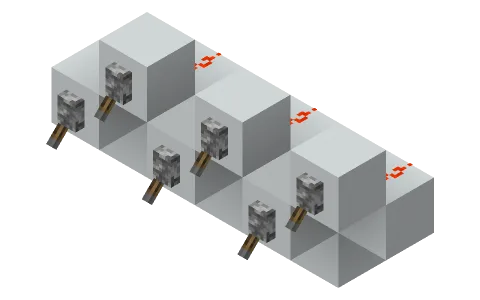
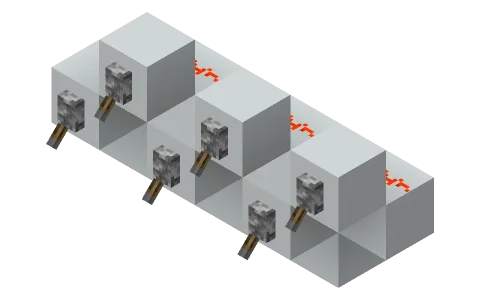
An input block may drive any number of dusts on its sides; dust under it still may not, which the picture that showed three dusts now shows instead. The example pictures are drawn with each dust shaped as the game places it among its neighbours, as //update does
Claude-Session: https://claude.ai/code/session_01VrCGFSjk8y7vX4fWnZdXPB

Changed region(s): [[0.7812, 0.54, 0.875, 0.66], [0.5938, 0.36, 0.6562, 0.45], [0.4062, 0.18, 0.4688, 0.27]]

diff --git a/src/simulate/circuit.rs b/src/simulate/circuit.rs
@@ -11,7 +11,7 @@ use anyhow::{Context, Result, bail};
 use mchprs_blocks::{
     BlockFace, BlockPos,
     block_entities::{BlockEntity, ContainerType},
-    blocks::Block,
+    blocks::{Block, RedstoneWireSide},
 };
 use mchprs_redpiler::{
     Compiler, CompilerInput, CompilerOptions, TaskMonitor,
@@ -843,6 +843,40 @@ const POWER: [&str; 4] = ["power", "powered", "lit", "locked"];
 /// What `blocks` comes to rest as with every lever off but those at `on`,
 /// as the game settles it: each block whose state changes, as its state
 /// with its power alone changed, and each comparator whose strength does.
+/// `blocks` with each dust's shape as the game would give it placed among
+/// its neighbours, as `//update` does: pointing at what it connects to,
+/// a lone dust a cross. Its power is left as it was.
+pub fn connected(blocks: &Blocks) -> Result<Blocks> {
+    let world = world(blocks)?;
+    let side = |side: RedstoneWireSide| match side {
+        RedstoneWireSide::Up => "up",
+        RedstoneWireSide::Side => "side",
+        RedstoneWireSide::None => "none",
+    };
+    let states: HashMap<Pos, String> = blocks
+        .iter()
+        .filter(|&(_, state)| state != schem::AIR)
+        .map(|(pos, state)| {
+            if schem::short(state) != "redstone_wire" {
+                return (pos, state.to_owned());
+            }
+            let placed =
+                mchprs_redstone::wire::get_state_for_placement(&world, at(pos));
+            let shaped = set_properties(
+                state,
+                &[
+                    ("north", side(placed.north).to_owned()),
+                    ("south", side(placed.south).to_owned()),
+                    ("east", side(placed.east).to_owned()),
+                    ("west", side(placed.west).to_owned()),
+                ],
+            );
+            (pos, shaped)
+        })
+        .collect();
+    Ok(Blocks::from_grid(blocks.size, &states))
+}
+
 pub fn settled(
     blocks: &Blocks,
     on: &BTreeSet<Pos>,

diff --git a/src/guide.rs b/src/guide.rs
@@ -99,18 +99,13 @@ pub fn examples() -> Vec<Example> {
             blocks: [input(1, 1), vec![([2, 1, 1], TORCH_EAST)]].concat(),
         },
         Example {
-            name: "input-three-dusts",
-            caption: "An input block driving three dusts.",
+            name: "input-dust-below",
+            caption: "Dust under an input's block.",
             kept: false,
-            breaks: Some("input drives three dusts"),
+            breaks: Some("input block wiring"),
             blocks: [
-                input(1, 1),
-                vec![
-                    ([0, 0, 1], WHITE),
-                    ([0, 1, 1], DUST_EW),
-                    ([2, 0, 1], WHITE),
-                    ([2, 1, 1], DUST_EW),
-                ],
+                input(1, 2),
+                vec![([1, 1, 1], DUST_EW), ([1, 0, 1], WHITE)],
             ]
             .concat(),
         },
@@ -204,7 +199,6 @@ mod tests {
             }
             if example.kept {
                 for rule in [
-                    "input drives three dusts",
                     "input block wiring",
                     "no room for a repeater",
                     "switch touches redstone",

diff --git a/src/web/pages/about.rs b/src/web/pages/about.rs
@@ -80,8 +80,8 @@ pub fn recognized(viewer: Option<&User>) -> Markup {
                 (rule(
                     "Data inputs",
                     "must be a lever on the side of a block, with no redstone on top or below. \
-                     The block can power up to two dusts, and there has to be room for a repeater where the lever is, so a bus could drive it instead.",
-                    &["input", "input-three-dusts", "repeater", "data-dust-on-top"],
+                     There has to be room for a repeater where the lever is, so a bus could drive it instead.",
+                    &["input", "repeater", "data-dust-on-top", "input-dust-below"],
                 ))
                 (rule(
                     "Control lines",

diff --git a/src/bin/rsdb.rs b/src/bin/rsdb.rs
@@ -921,11 +921,9 @@ async fn guide_images(dir: &Path) -> Result<()> {
             padding: 12.0,
         };
         for example in app::guide::examples() {
-            let webp = app::thumbnail::render_view(
-                &example.schematic(),
-                &renderer,
-                view,
-            )?;
+            // Its dust shaped as the game would place it.
+            let blocks = app::simulate::connected(&example.schematic())?;
+            let webp = app::thumbnail::render_view(&blocks, &renderer, view)?;
             fs::write(dir.join(format!("{}.webp", example.name)), webp)?;
             println!("{}", example.name);
         }

diff --git a/src/simulate.rs b/src/simulate.rs
@@ -68,7 +68,7 @@ mod timing;
 pub use adder::{SIGNED_GREATER_THAN, Variant as AdderVariant};
 pub use alu::{flags as alu_flags, op as alu_op};
 pub(crate) use circuit::panic_message;
-pub use circuit::{Circuit, Compiled, Link, compiled, settled};
+pub use circuit::{Circuit, Compiled, Link, compiled, connected, settled};
 pub use converters::at_least;
 pub use decoder::INVERTED as DECODER_INVERTED;
 pub use design::{Design, Terms, adder_design, design_of, groups};

diff --git a/src/inspect.rs b/src/inspect.rs
@@ -390,14 +390,6 @@ fn input_block(blocks: &Blocks, switch: &Switch, report: &mut Report) -> bool {
             );
         }
     }
-    if dust > 2 {
-        problem(
-            report,
-            "input drives three dusts",
-            vec![block],
-            format!("Input at {}: drives {dust} dusts (max 2)", place(block)),
-        );
-    }
     if drives == 0 {
         problem(
             report,

diff --git a/src/web/mod.rs b/src/web/mod.rs
@@ -141,7 +141,7 @@ macro_rules! guide_image {
 /// [`crate::guide::examples`].
 const GUIDE: [Asset; 11] = [
     guide_image!("input"),
-    guide_image!("input-three-dusts"),
+    guide_image!("input-dust-below"),
     guide_image!("repeater"),
     guide_image!("data-dust-on-top"),
     guide_image!("control-dust-on-top"),

diff --git a/conventions.md b/conventions.md
@@ -7,7 +7,7 @@ A build is on the list only when probing recognizes it as a blessed category: ad
 ## Inputs
 
 - An input is a lever on the side of a solid block, or a stone button for a pulse, such as a register's write. Never on the top or bottom.
-- The block drives at most two dusts, on sides other than its lever's, besides torches, repeaters, and comparators reading it. No other redstone touches it, though a target or redstone block may sit on top.
+- The block drives dust on its sides other than its lever's, and torches, repeaters, and comparators reading it. No other redstone touches it, though a target or redstone block may sit on top; dust below it never may.
 - A data input, such as an operand's bit or a register's data bus, is one a bus may drive: a repeater must fit where its lever is, standing on a block or above air, with nothing behind it but air or a sign, where the bus's driver feeds it. No dust on top of its block.
 - A control line, such as a carry in, a register's write, or an ALU's operation, is always driven by a lever or button, so its block may have dust on top and a block behind its lever.
 - Probing tells data inputs from control lines: an adder's are A and B, a register's its data bus in, an ALU's and a multiplier's their two widest input lines, a decoder's its one input line.
